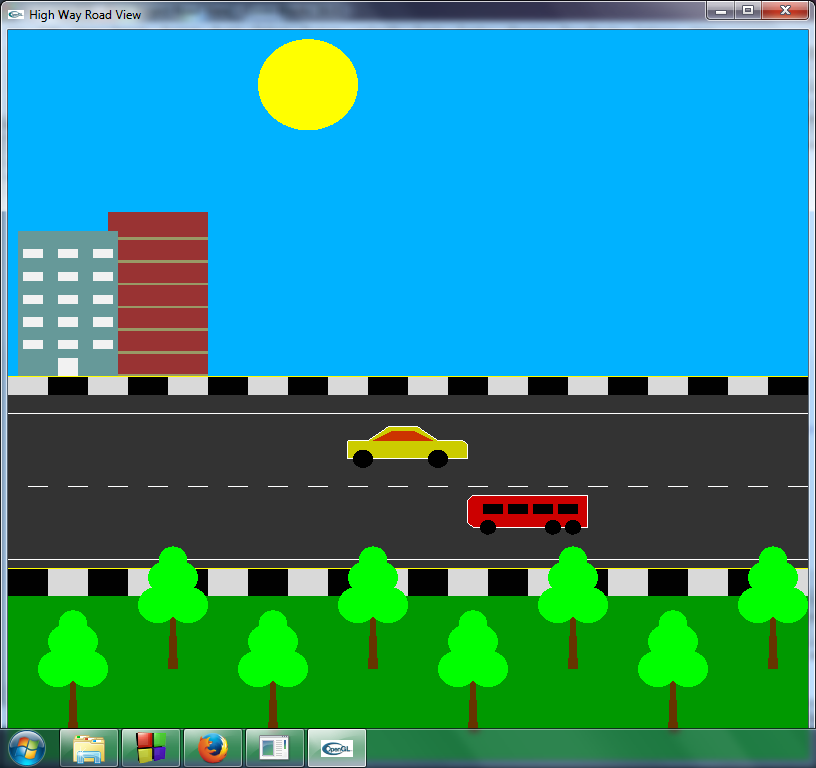
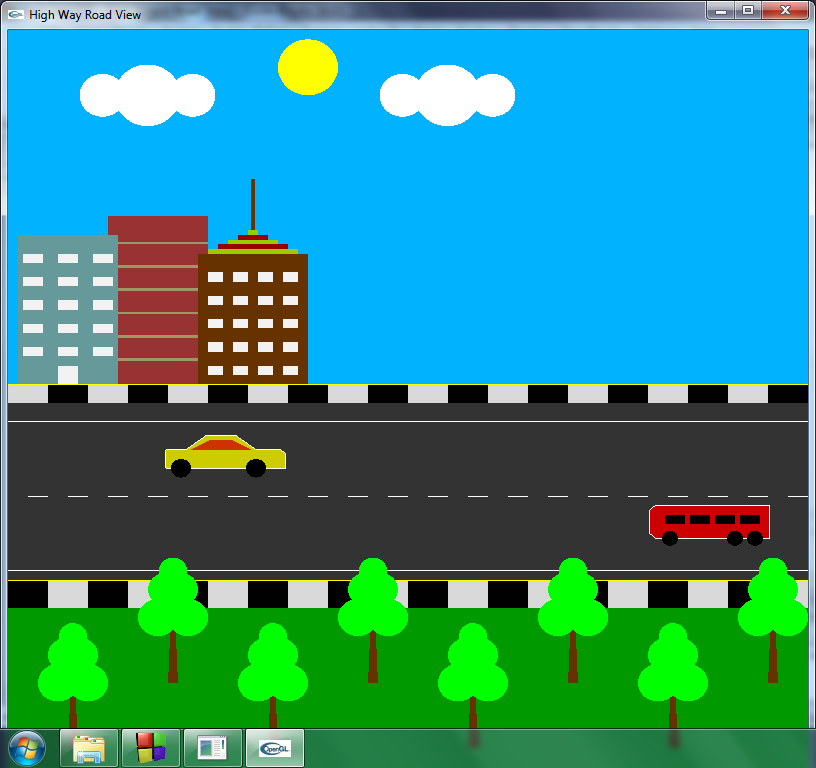
Cloud added

diff --git a/main.cpp b/main.cpp
@@ -8,6 +8,7 @@ void update(int);
 void draw_circle(float x, float y, float radius);
 float moveCar1 = 0.0f;
 float moveCar2 = 800.0f;
+float move_cloud=0;
 float moveBusUp=0.0f;
 float positionOfCarOne=0;
 float positionOfCarTwo=0;
@@ -169,11 +170,25 @@ void DrawGrassField(){
         treeDistance=treeDistance+200;
     }
 }
+void DrawCloud(){
+    ///==================================== Draw cloud
+
+    glColor3f(255, 255, 255);   //sun color
+    draw_circle(100+move_cloud,730,33);
+    draw_circle(55+move_cloud,730,23);
+    draw_circle(145+move_cloud,730,23);
+
+    draw_circle(400+move_cloud,730,33);
+    draw_circle(355+move_cloud,730,23);
+    draw_circle(445+move_cloud,730,23);
+}
 void DrawCity()
 {
     ///==================================== Draw Sun
     glColor3f(255, 255, 0);   //sun color
-    draw_circle(300,740,50);
+    draw_circle(300,760,30);
+
+    DrawCloud();
 
      ///==================================== Draw Building two
     glBegin(GL_POLYGON);
@@ -185,7 +200,7 @@ void DrawCity()
     glEnd();
 
     int buildingY1=570,buildingY2=573;
-	for(int i=0;i<7;i++){
+	for(int i=0;i<6;i++){
         //=================flor of building 1
         glBegin(GL_POLYGON);
         glColor3ub(153, 153, 102);
@@ -239,6 +254,66 @@ void DrawCity()
         }
 
 	}
+
+    ///==================================== Draw Building three
+    glBegin(GL_POLYGON);
+	glColor3ub(102, 51, 0);
+    glVertex2i(190,420);
+    glVertex2i(300,420);
+    glVertex2i(300,560);
+    glVertex2i(190,560);
+    glEnd();
+
+    int b3y1=430,b3y2=440;
+    int b3x1=200,b3x2=215;
+    for(int j=1;j<21;j++){
+        glBegin(GL_POLYGON);
+
+        glColor3ub(242, 242, 242);
+        glVertex2i(b3x1,b3y1);
+        glVertex2i(b3x2,b3y1);
+        glVertex2i(b3x2,b3y2);
+        glVertex2i(b3x1,b3y2);
+        glEnd();
+
+
+        b3x1=b3x1+25;
+        b3x2=b3x2+25;
+        if(j%4==0){
+            b3x1=200;
+            b3x2=215;
+            b3y1=b3y1+25;
+            b3y2=b3y2+25;
+        }
+
+    }
+    //==========================================antina
+
+    for(int i=0;i<5;i++){
+        glBegin(GL_POLYGON);
+        if(i%2==0){
+            glColor3ub(153, 204, 0);
+        }
+        else{
+            glColor3ub(153,0, 0);
+        }
+
+        glVertex2i(200+(i*10),560+(i*5));
+        glVertex2i(290-(i*10),560+(i*5));
+        glVertex2i(290-(i*10),565+(i*5));
+        glVertex2i(200+(i*10),565+(i*5));
+        glEnd();
+    }
+
+    glBegin(GL_POLYGON);
+	glColor3ub(102, 51, 0);
+    glVertex2i(243,585);
+    glVertex2i(247,585);
+    glVertex2i(247,640);
+    glVertex2i(243,640);
+    glEnd();
+
+
 
 
 }
@@ -434,10 +509,16 @@ void update(int value) {
     moveCar1 = moveCar1+2;  //initial speed
 
     moveCar2 = moveCar2-2;  //initial speed
+
     if(moveCar2< 0 && moveCar1> 800)
     {
         moveCar1 =-200;
         moveCar2 =1000;
+    }
+    move_cloud=+move_cloud+.5;
+    if(move_cloud> 800)
+    {
+        move_cloud =-500;
     }
     if(positionOfCarOne==positionOfCarTwo){
        moveCar1=moveCar1-2;
